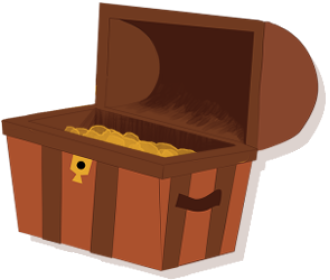
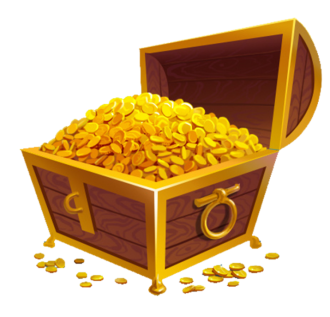
Result GUI bounds 및 이미지 변경(r_draw/win/defeat이미지 변경됨)

diff --git a/src/Game/Result.java b/src/Game/Result.java
@@ -56,39 +56,37 @@ public class Result extends JFrame {
 		contentPane.setLayout(null);
 
 		Result_Label = new JLabel("결과값");
-		Result_Label.setFont(new Font("맑은 고딕", Font.PLAIN, 24));
+		Result_Label.setFont(new Font("맑은 고딕", Font.BOLD, 24));
 		Result_Label.setHorizontalAlignment(SwingConstants.CENTER);
-		Result_Label.setBounds(230, 21, 129, 45);
+		Result_Label.setBounds(123, 50, 129, 45);
 		contentPane.add(Result_Label);
 
 		Gold_Label = new JLabel("얻은 골드 값");
 		Gold_Label.setHorizontalAlignment(SwingConstants.CENTER);
-		Gold_Label.setBounds(237, 76, 114, 21);
+		Gold_Label.setBounds(133, 93, 114, 21);
 		contentPane.add(Gold_Label);
 
 		// 골드 이미지
 		String gold_path = result(); // 결과 처리
 		JLabel Gold_Image = new JLabel(new ImageIcon(gold_path));
 		Gold_Image.setHorizontalAlignment(SwingConstants.CENTER);
-		Gold_Image.setBounds(223, 120, 150, 150);
+		Gold_Image.setBounds(254, 65, 330, 280);
 		contentPane.add(Gold_Image);
 
 		JButton Replay_Button = new JButton("다시 플레이");
-		Replay_Button.setBounds(100, 300, 150, 30);
+		Replay_Button.setBounds(97, 214, 150, 30);
 		contentPane.add(Replay_Button);
 
 		JButton BackMain_Button = new JButton("나가기");
-		BackMain_Button.setBounds(335, 300, 150, 30);
+		BackMain_Button.setBounds(97, 254, 150, 30);
 		contentPane.add(BackMain_Button);
 
 		// 색상 지정
 		Color backColor = new Color(210, 180, 145);
 		Color lineColor = new Color(252, 247, 222);
 		Color buttonColor = new Color(121, 117, 117);
-
-
 		contentPane.setBackground(backColor);
-
+	
 		JLabel board = new JLabel(new ImageIcon(board_path));
 		board.setLocation(12, 39);
 		board.setSize(346, 97);
@@ -97,9 +95,10 @@ public class Result extends JFrame {
 		JLabel back = new JLabel(new ImageIcon(back_path));
 		back.setLocation(0, 0);
 		back.setSize(594, 371);
-		getContentPane().add(back);
-		
+		getContentPane().add(back);		
+
 		setVisible(true);
+		
 
 		// 이벤트 처리
 		// 다시 플레이 버튼
@@ -183,7 +182,7 @@ public class Result extends JFrame {
 			Values.reward = Values.gold * 1;
 			Values.gold_save += Values.reward;
 			Values.user_draw++;
-			gold_path = path + "image/r_draw.png";
+			gold_path = path + "image/g_draw.png";
 		} else if (Values.userHPData < Values.comHPData) { // 패배
 			resultText = "졌습니다!";
 			Values.reward = Values.gold * 0;
